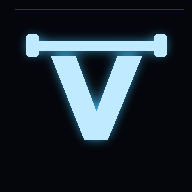
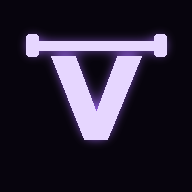
Tema roxo e cor de sistema escura (remove faixa azul)
Claude-Session: https://claude.ai/code/session_01FeCjumHcE5pUcSUn7yLynN

Changed region(s): [[0.125, 0.1562, 0.875, 0.75], [0.0938, 0.0312, 0.9688, 0.0625]]

diff --git a/index.html b/index.html
@@ -7,7 +7,7 @@
 <link rel="manifest" href="manifest.json">
 <link rel="icon" href="icon-192.png">
 <link rel="apple-touch-icon" href="apple-touch-icon.png">
-<meta name="theme-color" content="#04060c">
+<meta name="theme-color" content="#07040d">
 <meta name="apple-mobile-web-app-capable" content="yes">
 <meta name="mobile-web-app-capable" content="yes">
 <meta name="apple-mobile-web-app-title" content="Treino">
@@ -18,15 +18,15 @@
 <style>
 /* Tema: HUD de RPG escuro. Painéis com cantos chanfrados e brilho azul; uma coluna, celular primeiro. */
 :root {
-  --bg: #04060c;
-  --surface: rgba(9, 17, 34, 0.88);
-  --surface-2: rgba(14, 28, 56, 0.9);
-  --ink: #dcebff;
-  --muted: #7f95b9;
-  --line: #1d3a66;
-  --accent: #44c2ff;
-  --accent-soft: rgba(68, 194, 255, 0.12);
-  --glow: 0 0 0 1px rgba(68, 194, 255, .55), 0 0 18px rgba(68, 194, 255, .22), inset 0 0 22px rgba(68, 194, 255, .07);
+  --bg: #07040d;
+  --surface: rgba(17, 10, 33, 0.9);
+  --surface-2: rgba(29, 17, 54, 0.92);
+  --ink: #efe6ff;
+  --muted: #9d8fbd;
+  --line: #35245e;
+  --accent: #b07cff;
+  --accent-soft: rgba(166, 107, 255, 0.12);
+  --glow: 0 0 0 1px rgba(166, 107, 255, .55), 0 0 18px rgba(166, 107, 255, .22), inset 0 0 22px rgba(166, 107, 255, .07);
   --good: #3cf0a5;
   --good-soft: rgba(60, 240, 165, 0.12);
   --warn: #ffc24b;
@@ -38,10 +38,11 @@
 }
 * { box-sizing: border-box; }
 html, body { margin: 0; }
+html { background: #07040d; }
 body {
   background:
-    radial-gradient(900px 500px at 50% -120px, rgba(40, 110, 255, .22), transparent 70%),
-    repeating-linear-gradient(0deg, rgba(68, 194, 255, .035) 0 1px, transparent 1px 4px),
+    radial-gradient(900px 500px at 50% -120px, rgba(122, 52, 255, .24), transparent 70%),
+    repeating-linear-gradient(0deg, rgba(166, 107, 255, .035) 0 1px, transparent 1px 4px),
     var(--bg);
   background-attachment: fixed;
   color: var(--ink); font-family: var(--font-body); font-size: 16px; line-height: 1.45;
@@ -49,7 +50,7 @@ body {
 .panel, .card, .guide, .datebar, .banner {
   background: var(--surface);
   clip-path: polygon(var(--cut) 0, 100% 0, 100% calc(100% - var(--cut)), calc(100% - var(--cut)) 100%, 0 100%, 0 var(--cut));
-  border: 1px solid rgba(68, 194, 255, .38);
+  border: 1px solid rgba(166, 107, 255, .38);
   box-shadow: var(--glow);
   position: relative;
 }
@@ -59,19 +60,19 @@ body {
 }
 header.top { position: sticky; top: 0; z-index: 5; background: rgba(4, 6, 12, .92); backdrop-filter: blur(6px); border-bottom: 1px solid var(--line); padding-top: env(safe-area-inset-top); }
 .brand { display: flex; align-items: center; justify-content: space-between; gap: 12px; padding: 12px 16px 2px; max-width: 720px; margin: 0 auto; }
-.brand h1 { font-family: var(--font-display); font-weight: 700; font-size: 22px; letter-spacing: .08em; text-transform: uppercase; margin: 0; white-space: nowrap; text-shadow: 0 0 12px rgba(68, 194, 255, .55); }
+.brand h1 { font-family: var(--font-display); font-weight: 700; font-size: 22px; letter-spacing: .08em; text-transform: uppercase; margin: 0; white-space: nowrap; text-shadow: 0 0 12px rgba(166, 107, 255, .55); }
 #status { font-size: 12px; color: var(--muted); white-space: nowrap; letter-spacing: .04em; }
 #status.ok { color: var(--good); }
 #status.err { color: var(--warn); }
 .lvl { max-width: 720px; margin: 0 auto; padding: 4px 16px 0; display: grid; grid-template-columns: auto 1fr auto; gap: 10px; align-items: center; font-family: var(--font-display); font-weight: 600; letter-spacing: .08em; font-size: 14px; }
-.lvl-badge { color: var(--accent); text-shadow: 0 0 8px rgba(68, 194, 255, .6); }
+.lvl-badge { color: var(--accent); text-shadow: 0 0 8px rgba(166, 107, 255, .6); }
 .lvl-bar { height: 6px; background: var(--surface-2); border: 1px solid var(--line); overflow: hidden; transform: skewX(-20deg); }
-.lvl-fill { height: 100%; background: linear-gradient(90deg, #1e78ff, var(--accent)); box-shadow: 0 0 10px var(--accent); }
+.lvl-fill { height: 100%; background: linear-gradient(90deg, #6a2bff, var(--accent)); box-shadow: 0 0 10px var(--accent); }
 .lvl-xp { color: var(--muted); font-variant-numeric: tabular-nums; }
 nav.tabs { display: flex; gap: 6px; overflow-x: auto; padding: 10px 16px 10px; max-width: 720px; margin: 0 auto; scrollbar-width: none; }
 nav.tabs::-webkit-scrollbar { display: none; }
 nav.tabs button { flex: 0 0 auto; font: 600 15px var(--font-display); letter-spacing: .08em; text-transform: uppercase; padding: 7px 14px; border: 1px solid var(--line); background: var(--surface); color: var(--muted); cursor: pointer; clip-path: polygon(8px 0, 100% 0, calc(100% - 8px) 100%, 0 100%); }
-nav.tabs button[aria-selected="true"] { color: var(--bg); background: var(--accent); border-color: var(--accent); box-shadow: 0 0 14px rgba(68, 194, 255, .6); }
+nav.tabs button[aria-selected="true"] { color: var(--bg); background: var(--accent); border-color: var(--accent); box-shadow: 0 0 14px rgba(166, 107, 255, .6); }
 main { max-width: 720px; margin: 0 auto; padding: 16px 16px calc(48px + env(safe-area-inset-bottom)); display: grid; gap: 14px; }
 .banner { padding: 12px 14px; font-size: 14px; }
 .wk-head { display: grid; gap: 4px; }
@@ -84,10 +85,10 @@ main { max-width: 720px; margin: 0 auto; padding: 16px 16px calc(48px + env(safe
 .datebar .hint { font-size: 13px; color: var(--muted); }
 .card { padding: 16px 14px 14px; display: grid; gap: 10px; }
 .card-top { display: grid; grid-template-columns: 34px 1fr; gap: 10px; align-items: start; }
-.num { font-family: var(--font-display); font-weight: 700; font-size: 24px; color: var(--accent); line-height: 1.05; font-variant-numeric: tabular-nums; text-shadow: 0 0 10px rgba(68, 194, 255, .6); }
+.num { font-family: var(--font-display); font-weight: 700; font-size: 24px; color: var(--accent); line-height: 1.05; font-variant-numeric: tabular-nums; text-shadow: 0 0 10px rgba(166, 107, 255, .6); }
 .ex-name { font-weight: 600; margin: 0; }
 .ex-note { font-size: 13px; color: var(--muted); margin: 2px 0 0; }
-.howto { display: inline-block; margin-top: 6px; font: 600 13px var(--font-display); letter-spacing: .08em; text-transform: uppercase; color: var(--accent); text-decoration: none; padding: 4px 10px; border: 1px solid rgba(68, 194, 255, .5); background: var(--accent-soft); }
+.howto { display: inline-block; margin-top: 6px; font: 600 13px var(--font-display); letter-spacing: .08em; text-transform: uppercase; color: var(--accent); text-decoration: none; padding: 4px 10px; border: 1px solid rgba(166, 107, 255, .5); background: var(--accent-soft); }
 .howto:active { opacity: .7; }
 .meta { display: flex; flex-wrap: wrap; gap: 8px; align-items: center; font-size: 14px; }
 .presc { font-family: var(--font-display); font-weight: 600; font-size: 16px; letter-spacing: .04em; font-variant-numeric: tabular-nums; }
@@ -99,7 +100,7 @@ main { max-width: 720px; margin: 0 auto; padding: 16px 16px calc(48px + env(safe
 .field { display: grid; gap: 4px; }
 .field label { font: 600 12px var(--font-display); color: var(--muted); text-transform: uppercase; letter-spacing: .1em; }
 .field input { width: 100%; font: 600 20px var(--font-body); font-variant-numeric: tabular-nums; color: var(--ink); background: var(--surface-2); border: 1px solid var(--line); padding: 8px 10px; }
-.field input:focus { border-color: var(--accent); box-shadow: 0 0 12px rgba(68, 194, 255, .4); outline: none; }
+.field input:focus { border-color: var(--accent); box-shadow: 0 0 12px rgba(166, 107, 255, .4); outline: none; }
 .field input:disabled { opacity: .55; }
 input:focus-visible, button:focus-visible, summary:focus-visible, a:focus-visible { outline: 2px solid var(--accent); outline-offset: 2px; }
 details summary { cursor: pointer; font: 600 14px var(--font-display); letter-spacing: .08em; text-transform: uppercase; color: var(--accent); }
@@ -135,7 +136,7 @@ details summary { cursor: pointer; font: 600 14px var(--font-display); letter-sp
 .cal { display: grid; grid-template-columns: repeat(7, 1fr); gap: 4px; max-width: 360px; }
 .cal-h { text-align: center; font: 600 12px var(--font-display); color: var(--muted); letter-spacing: .1em; }
 .cal-d { text-align: center; font-size: 13px; padding: 6px 0; font-variant-numeric: tabular-nums; border: 1px solid transparent; }
-.cal-d.done { background: var(--accent); color: var(--bg); font-weight: 700; box-shadow: 0 0 10px rgba(68, 194, 255, .5); }
+.cal-d.done { background: var(--accent); color: var(--bg); font-weight: 700; box-shadow: 0 0 10px rgba(166, 107, 255, .5); }
 .cal-d.plan { border: 1px dashed var(--accent); }
 .cal-d.miss { color: var(--bad); opacity: .7; text-decoration: line-through; }
 .cal-d.today { outline: 2px solid var(--ink); outline-offset: -2px; }
@@ -147,7 +148,7 @@ details summary { cursor: pointer; font: 600 14px var(--font-display); letter-sp
 .sw.miss { background: var(--bad); opacity: .6; }
 .chips { display: flex; flex-wrap: wrap; gap: 6px; }
 .gchip { font: 600 14px var(--font-display); letter-spacing: .06em; text-transform: uppercase; padding: 5px 12px; border: 1px solid var(--line); background: var(--surface-2); color: var(--muted); cursor: pointer; }
-.gchip[aria-pressed="true"] { border-color: var(--accent); color: var(--accent); background: var(--accent-soft); box-shadow: 0 0 10px rgba(68, 194, 255, .35); }
+.gchip[aria-pressed="true"] { border-color: var(--accent); color: var(--accent); background: var(--accent-soft); box-shadow: 0 0 10px rgba(166, 107, 255, .35); }
 .chart-t { margin: 6px 0 0; font: 600 13px var(--font-display); letter-spacing: .1em; text-transform: uppercase; }
 .chart svg { width: 100%; height: auto; display: block; overflow: visible; }
 .chart .grid { stroke: var(--line); stroke-width: 1; }
@@ -155,8 +156,8 @@ details summary { cursor: pointer; font: 600 14px var(--font-display); letter-sp
 .chart .ax { fill: var(--muted); font: 10px var(--font-body); }
 .chart .val { fill: var(--ink); font: 700 12px var(--font-display); }
 .chart .bar { fill: var(--accent); opacity: .35; }
-.chart .bar.last { opacity: 1; filter: drop-shadow(0 0 6px rgba(68, 194, 255, .8)); }
-.chart .line { fill: none; stroke: var(--accent); stroke-width: 2.5; stroke-linejoin: round; stroke-linecap: round; filter: drop-shadow(0 0 4px rgba(68, 194, 255, .7)); }
+.chart .bar.last { opacity: 1; filter: drop-shadow(0 0 6px rgba(166, 107, 255, .8)); }
+.chart .line { fill: none; stroke: var(--accent); stroke-width: 2.5; stroke-linejoin: round; stroke-linecap: round; filter: drop-shadow(0 0 4px rgba(166, 107, 255, .7)); }
 .chart .area { fill: var(--accent); opacity: .1; }
 .chart .dot { fill: var(--bg); stroke: var(--accent); stroke-width: 2; }
 .chart .dot.last { fill: var(--accent); }

diff --git a/sw.js b/sw.js
@@ -1,4 +1,4 @@
-const CACHE = "treino-v5";
+const CACHE = "treino-v6";
 const CORE = ["./", "index.html", "manifest.json", "icon-192.png", "icon-512.png", "apple-touch-icon.png"];
 self.addEventListener("install", e => { e.waitUntil(caches.open(CACHE).then(c => c.addAll(CORE)).then(() => self.skipWaiting())); });
 self.addEventListener("activate", e => { e.waitUntil(caches.keys().then(ks => Promise.all(ks.filter(k => k !== CACHE).map(k => caches.delete(k)))).then(() => self.clients.claim())); });
